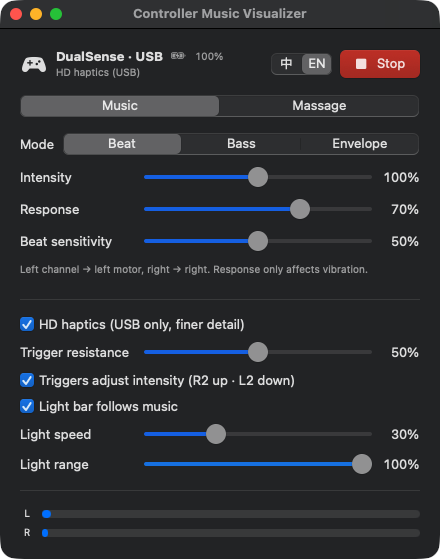
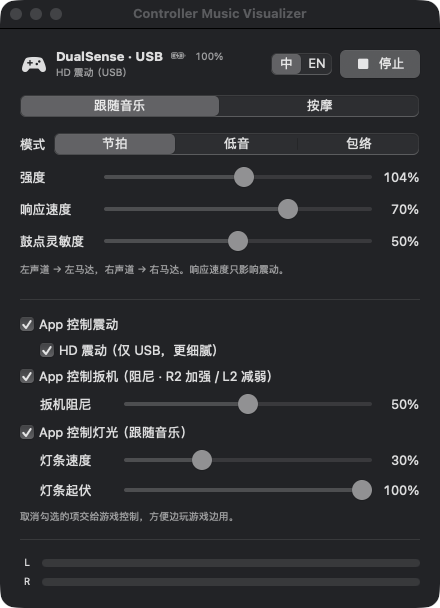
震动、扳机、灯光可分别交给游戏，方便边玩游戏边用
- 新增「App 控制震动」；「用扳机调强度」改为「App 控制扳机」（阻尼 + R2/L2 调强度）；
  「灯条跟随音乐」改为「App 控制灯光」
- 交给游戏的项不再设置 HID 报告里对应的生效标志位，手柄保留游戏的设置；
  交出的那一刻先发一次默认值（阻尼关、灯条默认蓝、马达归零并回到兼容模式）
- 震动交给游戏时只置兼容模式位，马达强度由游戏决定；三项全部交出时不发报告，等同停止
- 去掉关闭灯光时的暗提示灯；停止时只重置由 App 控制的项
- 修复：交出控制权时 Swift 同时访问冲突导致闪退
- README：控制项说明、边玩游戏边用的建议；更新截图

diff --git a/Sources/ControllerMusicVisualizer/HapticsController.swift b/Sources/ControllerMusicVisualizer/HapticsController.swift
@@ -30,14 +30,36 @@ final class HapticsController: ObservableObject {
     @Published var intensity: Float = 1
     @Published var speed: Double = 1
 
+    // 以下三项：勾选 = 由 App 控制；取消 = 交给游戏（App 完全不设置这一项），方便边玩游戏边用
+
+    /// App 控制震动
+    @Published var vibrationEnabled = true {
+        didSet { if running && vibrationEnabled != oldValue { allLeftToGame ? stop() : restart() } }
+    }
     /// HD 震动（仅 USB）：音频声道驱动马达，跟随音乐时直接传递音乐的低频波形
     @Published var hdEnabled = true { didSet { if running && hdEnabled != oldValue { restart() } } }
+    /// App 控制扳机：扳机阻尼 + R2/L2 调强度
+    @Published var triggersEnabled = true {
+        didSet {
+            hid?.controlsTriggers = triggersEnabled
+            if hid == nil && !triggersEnabled { features.setTriggerResistance(0) }
+            if running && allLeftToGame { stop() }
+        }
+    }
     @Published var triggerResistance: Float = 0.5
-    @Published var triggerAdjustsIntensity = true
     @Published var lightSpeed: Float = 0.3 { didSet { analyzer.lightSpeed = lightSpeed } }
     /// 灯条亮暗变化幅度：1 = 鼓点间完全暗掉，越小保留的底亮度越高
     @Published var lightRange: Float = 1
-    @Published var lightEffects = true { didSet { if !lightEffects { resetLight() } } }
+    /// App 控制灯光（灯条 + 白灯）
+    @Published var lightEffects = true {
+        didSet {
+            hid?.controlsLights = lightEffects
+            if running && allLeftToGame { stop() }
+        }
+    }
+
+    /// 三项都交给游戏时 App 不碰手柄，等同于停止
+    var allLeftToGame: Bool { !vibrationEnabled && !triggersEnabled && !lightEffects }
 
     @Published private(set) var running = false
     @Published private(set) var status = Bilingual(zh: "未连接手柄", en: "No controller")
@@ -146,6 +168,7 @@ final class HapticsController: ObservableObject {
     func toggle() { running ? stop() : start() }
 
     func start() {
+        guard !allLeftToGame else { return }
         errorMessage = nil
         link = currentLink()
         updateStatus()
@@ -159,13 +182,16 @@ final class HapticsController: ObservableObject {
         if let h = DualSenseHID.open() {
             hid = h
             output = h
+            h.controlsRumble = vibrationEnabled
+            h.controlsTriggers = triggersEnabled
+            h.controlsLights = lightEffects
             // USB 时启用 HD 震动：音频第 3/4 声道驱动马达，HID 关掉兼容震动开关
-            if hdEnabled, !h.isBluetooth, let dev = CA.dualSenseOutputDevice(),
+            if vibrationEnabled, hdEnabled, !h.isBluetooth, let dev = CA.dualSenseOutputDevice(),
                let out = try? HDHapticOutput(device: dev, waveform: waveform) {
                 hd = out
                 h.hdHaptics = true
             }
-        } else {
+        } else if vibrationEnabled {
             do {
                 output = try RumbleHapticOutput(controller: c)
             } catch {
@@ -175,8 +201,9 @@ final class HapticsController: ObservableObject {
                     en: "Could not connect to the system controller haptics service (\(code)). Reconnect the controller; if that fails, run sudo killall gamecontrollerd in Terminal and press Start again.")
             }
         }
-        engineName = hd != nil ? Bilingual(zh: "HD 震动（USB）", en: "HD haptics (USB)")
-                               : output?.name ?? Bilingual(zh: "震动不可用", en: "Vibration unavailable")
+        engineName = !vibrationEnabled ? Bilingual(zh: "震动交给游戏", en: "Vibration left to games")
+                   : hd != nil ? Bilingual(zh: "HD 震动（USB）", en: "HD haptics (USB)")
+                   : output?.name ?? Bilingual(zh: "震动不可用", en: "Vibration unavailable")
         NSLog("ControllerMusicVisualizer engine: %@", engineName.en)
 
         if source == .music { startTap() }
@@ -243,8 +270,12 @@ final class HapticsController: ObservableObject {
         output?.set(left: 0, right: 0)
         output?.stop()
         output = nil
+        // 没有直连手柄时，扳机/灯光是通过 GameController 设置的，只重置由 App 控制的项
+        if hid == nil {
+            if triggersEnabled { features.setTriggerResistance(0) }
+            if lightEffects { features.reset() }
+        }
         hid = nil
-        features.reset()
         running = false
         engineName = Bilingual(zh: "—", en: "—")
         level = (0, 0)
@@ -263,15 +294,15 @@ final class HapticsController: ObservableObject {
         lastTick = now
         frame += 1
 
-        // 扳机：R2 加强度，L2 减强度，按得越深变得越快
-        // 在后台时系统会重置扳机/灯条，每 0.5 秒补发一次
-        if let hid {
-            hid.setTriggerResistance(triggerResistance)
-        } else {
-            if !NSApplication.shared.isActive && frame % 50 == 0 { features.invalidate() }
-            features.setTriggerResistance(triggerResistance)
-        }
-        if triggerAdjustsIntensity {
+        // 扳机（交给游戏时完全不碰）：阻尼；R2 加强度，L2 减强度，按得越深变得越快
+        if triggersEnabled {
+            if let hid {
+                hid.setTriggerResistance(triggerResistance)
+            } else {
+                // 在后台时系统会重置扳机/灯条，每 0.5 秒补发一次
+                if !NSApplication.shared.isActive && frame % 50 == 0 { features.invalidate() }
+                features.setTriggerResistance(triggerResistance)
+            }
             let (lt, rt) = features.triggers
             let dz: (Float) -> Float = { $0 < 0.05 ? 0 : $0 * $0 }
             let delta = (dz(rt) - dz(lt)) * 1.0 * dt
@@ -292,21 +323,18 @@ final class HapticsController: ObservableObject {
         }
         l = min(max(l * intensity, 0), 1)
         r = min(max(r * intensity, 0), 1)
+        if !vibrationEnabled { l = 0; r = 0 }
         if let hd {
             hd.set(left: l, right: r, freq: source == .music ? musicMode.carrier : preset.carrier(massageTime),
                    useMusic: source == .music)
             output?.set(left: 0, right: 0)   // HID 只负责扳机、灯光（并保持定期重发）
         } else {
-            output?.set(left: l, right: r)
+            output?.set(left: l, right: r)   // 震动交给游戏时 HID 不设置马达强度，这里只为定期重发扳机、灯光
         }
         level = (l, r)
 
-        // 灯光用强度之前的原始数值，强度调低也照样跳
-        if lightEffects { updateLight(music) } else { resetLight() }   // 关闭时保持暗提示灯（值不变不会重复发送）
-    }
-
-    private func resetLight() {
-        if let hid { hid.setIdleLight() } else { features.setLight(0, 0.02, 0.1) }
+        // 灯光用强度之前的原始数值，强度调低也照样跳；交给游戏时完全不碰
+        if lightEffects { updateLight(music) }
     }
 
     private func updateLight(_ m: MusicFrame) {

diff --git a/Sources/ControllerMusicVisualizer/DualSenseHID.swift b/Sources/ControllerMusicVisualizer/DualSenseHID.swift
@@ -21,6 +21,26 @@ final class DualSenseHID: HapticOutput {
 
     /// HD 震动模式：关掉兼容震动开关，手柄改由 USB 音频第 3/4 声道的波形驱动（只有 USB 可用）
     var hdHaptics = false { didSet { if hdHaptics != oldValue { dirty = true } } }
+
+    /// 各项由 App 控制还是交给游戏。交给游戏的项不设置「生效」标志位，手柄保留游戏的设置；
+    /// 三项都交给游戏时完全不发报告。
+    /// 手柄会一直保留最后收到的设置，所以交出去的那一刻先发一次「恢复默认」再放手
+    var controlsRumble = true {
+        didSet { if controlsRumble != oldValue { releaseRumble = !controlsRumble; handedOver() } }
+    }
+    var controlsTriggers = true {
+        didSet { if controlsTriggers != oldValue { releaseTriggers = !controlsTriggers; handedOver() } }
+    }
+    var controlsLights = true {
+        didSet { if controlsLights != oldValue { releaseLights = !controlsLights; handedOver() } }
+    }
+    private var releaseRumble = false, releaseTriggers = false, releaseLights = false
+
+    /// 控制权变化后立即发送（交出的项这一次会发默认值）
+    private func handedOver() {
+        dirty = true
+        flush()
+    }
     private var seq: UInt8 = 0
 
     private var motorLeft: UInt8 = 0
@@ -98,12 +118,6 @@ final class DualSenseHID: HapticOutput {
         if m != playerLEDs { playerLEDs = m; dirty = true }
     }
 
-    /// 灯光关闭时的提示状态：很暗的蓝色灯条 + 中间一颗白灯
-    func setIdleLight() {
-        setLight(0, 0.02, 0.1)
-        setPlayerLEDs(0b00100)
-    }
-
     // MARK: - 发送
 
     private func flush() {
@@ -112,23 +126,43 @@ final class DualSenseHID: HapticOutput {
 
     @discardableResult
     private func send() -> Bool {
+        let rumble = controlsRumble || releaseRumble
+        let triggers = controlsTriggers || releaseTriggers
+        let lights = controlsLights || releaseLights
+        guard rumble || triggers || lights else { return true }   // 全部交给游戏
+
+        // 交出去的项：这一次发送默认值
+        var motors = (motorLeft, motorRight), resist = resistance, rgb = light, leds = playerLEDs
+        var hd = hdHaptics
+        if releaseRumble { motors = (0, 0); hd = false }
+        if releaseTriggers { resist = 0 }
+        if releaseLights { rgb = (0, 64, 255); leds = 0b00100 }
+        releaseRumble = false; releaseTriggers = false; releaseLights = false
+
         var c = [UInt8](repeating: 0, count: 47)
-        // 兼容震动开关（bit0、bit1）：开着时手柄忽略音频声道的波形；两个都关掉才进入 HD 模式
-        c[0] = (hdHaptics ? 0 : 0x01 | 0x02) | 0x04 | 0x08   // 兼容震动、震动选择、右扳机、左扳机
-        c[1] = 0x04 | 0x10                  // 灯条、玩家指示灯
-        c[2] = motorRight
-        c[3] = motorLeft
-        if resistance > 0 {
+        // 震动标志位兼有模式切换作用（实测）：
+        //   bit0 = 马达强度生效，bit1 = 保持兼容震动模式；两位都清零 → 手柄改用音频声道波形（HD）
+        //   交给游戏时只置 bit1：手柄留在兼容模式，马达强度由游戏决定
+        if rumble {
+            c[0] = hd ? 0 : 0x01 | 0x02
+            c[38] = hd ? 0 : 0x04     // 新固件的兼容震动开关
+        } else {
+            c[0] = 0x02
+        }
+        if triggers { c[0] |= 0x04 | 0x08 }   // 右扳机、左扳机
+        if lights { c[1] = 0x04 | 0x10 }      // 灯条、玩家指示灯
+        c[2] = motors.1
+        c[3] = motors.0
+        if triggers && resist > 0 {
             // 扳机效果 0x01：阻力，参数 = 起点、力度
             for base in [10, 21] {
                 c[base] = 0x01
                 c[base + 1] = 0x08
-                c[base + 2] = resistance
+                c[base + 2] = resist
             }
         }
-        c[38] = hdHaptics ? 0 : 0x04         // 新固件的兼容震动开关
-        c[43] = playerLEDs | 0x20           // bit5：立即亮灭，不渐变
-        c[44] = light.0; c[45] = light.1; c[46] = light.2
+        c[43] = leds | 0x20                 // bit5：立即亮灭，不渐变
+        c[44] = rgb.0; c[45] = rgb.1; c[46] = rgb.2
 
         var report: [UInt8]
         let reportID: CFIndex

diff --git a/Sources/ControllerMusicVisualizer/App.swift b/Sources/ControllerMusicVisualizer/App.swift
@@ -68,7 +68,9 @@ struct ContentView: View {
                             .help(b.charging ? L("充电中", "Charging") : L("电量", "Battery"))
                     }
                 }
-                Text(h.running ? h.engineName.text : L("未运行", "Stopped")).font(.caption).foregroundStyle(.secondary)
+                Text(h.running ? h.engineName.text
+                     : h.allLeftToGame ? L("全部交给游戏", "Everything left to games") : L("未运行", "Stopped"))
+                    .font(.caption).foregroundStyle(.secondary)
             }
             Spacer()
             Picker("", selection: $language) {
@@ -86,6 +88,7 @@ struct ContentView: View {
             .keyboardShortcut(.space, modifiers: [])
             .buttonStyle(.borderedProminent)
             .tint(h.running ? .red : .accentColor)
+            .disabled(!h.running && h.allLeftToGame)
         }
     }
 
@@ -143,19 +146,31 @@ struct ContentView: View {
 
     private var featuresPanel: some View {
         VStack(alignment: .leading, spacing: 10) {
-            Toggle(L("HD 震动（仅 USB，更细腻）", "HD haptics (USB only, finer detail)"), isOn: $h.hdEnabled)
-            slider(L("扳机阻尼", "Trigger resistance"), value: $h.triggerResistance)
-            Toggle(L("用扳机调强度（R2 加强 · L2 减弱）", "Triggers adjust intensity (R2 up · L2 down)"),
-                   isOn: $h.triggerAdjustsIntensity)
-            Toggle(h.source == .music ? L("灯条跟随音乐", "Light bar follows music")
-                                      : L("灯条显示按摩颜色", "Light bar shows massage color"),
+            Toggle(L("App 控制震动", "App controls vibration"), isOn: $h.vibrationEnabled)
+            if h.vibrationEnabled {
+                Toggle(L("HD 震动（仅 USB，更细腻）", "HD haptics (USB only, finer detail)"), isOn: $h.hdEnabled)
+                    .padding(.leading, 20)
+            }
+            Toggle(L("App 控制扳机（阻尼 · R2 加强 / L2 减弱）", "App controls triggers (resistance · R2 up / L2 down)"),
+                   isOn: $h.triggersEnabled)
+            if h.triggersEnabled {
+                slider(L("扳机阻尼", "Trigger resistance"), value: $h.triggerResistance)
+                    .padding(.leading, 20)
+            }
+            Toggle(h.source == .music ? L("App 控制灯光（跟随音乐）", "App controls lights (follow music)")
+                                      : L("App 控制灯光（按摩颜色）", "App controls lights (massage color)"),
                    isOn: $h.lightEffects)
             if h.lightEffects {
-                if h.source == .music {
-                    slider(L("灯条速度", "Light speed"), value: $h.lightSpeed)
+                Group {
+                    if h.source == .music {
+                        slider(L("灯条速度", "Light speed"), value: $h.lightSpeed)
+                    }
+                    slider(L("灯条起伏", "Light range"), value: $h.lightRange)
                 }
-                slider(L("灯条起伏", "Light range"), value: $h.lightRange)
+                .padding(.leading, 20)
             }
+            Text(L("取消勾选的项交给游戏控制，方便边玩游戏边用。", "Unchecked items are left to the game, so you can use this while gaming."))
+                .font(.caption).foregroundStyle(.secondary)
         }
     }
 

diff --git a/README.md b/README.md
@@ -28,6 +28,7 @@ Works with most Sony controllers: DualSense / DualSense Edge get every feature, 
 | **HD 震动（USB）**：像 PS5 一样用波形驱动马达。跟随音乐时把底鼓、贝斯的真实波形传到手上；按摩时每种预设有不同的频率质感 | **HD haptics (USB)**: drives the actuators with waveforms like a PS5. In Music mode the real kick/bass waveform reaches your hands; each massage preset has its own frequency texture |
 | **扳机阻尼**：L2/R2 可调阻力，App 在后台时依然有效 | **Trigger resistance**: adjustable L2/R2 resistance that keeps working while the app is in the background |
 | **扳机调强度**：按 R2 加强、L2 减弱，按得越深变得越快 | **Trigger intensity control**: hold R2 to increase, L2 to decrease; deeper press = faster change |
+| **边玩游戏边用**：震动、扳机、灯光可以分别交给游戏或由 App 控制。比如游戏保留自己的自适应扳机和灯光，App 只负责跟随游戏声音震动 | **Use it while gaming**: vibration, triggers and lights can each be left to the game or controlled by the app — e.g. keep the game's adaptive triggers and lights while the app adds vibration that follows the game's audio |
 | **灯条**：低/中/高频混合成红/绿/蓝，亮度跟随低音节奏，暗下去之后才换色 | **Light bar**: low/mid/high frequencies mixed into red/green/blue, brightness pulses with the bass, color changes only after it dims |
 | **白点电平灯**：下方 5 颗白灯显示左右声道的相对强度 | **Player LEDs**: the 5 white LEDs act as a stereo level meter |
 | USB 和蓝牙都支持；显示手柄电量和充电状态；界面中英文切换 | Works over USB and Bluetooth; shows controller battery and charging state; Chinese / English UI |
@@ -78,12 +79,17 @@ open build/ControllerMusicVisualizer.app
 | 响应速度 | 震动跟随声音的快慢（尤其是声音变小时） | Response | How quickly vibration follows the audio (especially when it gets quieter) |
 | 鼓点灵敏度 | 仅节拍模式：越高，越小的鼓点也会触发 | Beat sensitivity | Beat mode only: higher = softer hits also trigger |
 | 速度 | 按摩节奏快慢 | Speed | Massage tempo |
-| HD 震动 | 仅 USB：用波形驱动马达，更细腻；关闭则用兼容震动 | HD haptics | USB only: waveform-driven, finer detail; off = compatible rumble |
-| 扳机阻尼 | L2/R2 阻力，0 为关闭 | Trigger resistance | L2/R2 resistance; 0 = off |
-| 灯条速度 | 灯条暗下去的快慢：慢像呼吸灯，快则一闪一闪；也决定换色频率 | Light speed | How fast the light bar dims: slow = breathing, fast = flashing; also sets how often colors change |
-| 灯条起伏 | 亮暗变化幅度：100% 时鼓点间完全暗掉，越低保留的底亮度越高 | Light range | Depth of the pulsing: 100% = fully dark between beats, lower keeps a base glow |
+| App 控制震动 | 取消后震动交给游戏（等于 App 不碰马达） | App controls vibration | Off = vibration is left to the game |
+| └ HD 震动 | 仅 USB：用波形驱动马达，更细腻；关闭则用兼容震动 | └ HD haptics | USB only: waveform-driven, finer detail; off = compatible rumble |
+| App 控制扳机 | 取消后扳机交给游戏：不设阻尼，R2/L2 也不再调强度 | App controls triggers | Off = triggers are left to the game: no resistance, and R2/L2 no longer adjust intensity |
+| └ 扳机阻尼 | L2/R2 阻力，0 为关闭 | └ Trigger resistance | L2/R2 resistance; 0 = off |
+| App 控制灯光 | 取消后灯条和白灯交给游戏 | App controls lights | Off = light bar and player LEDs are left to the game |
+| └ 灯条速度 | 灯条暗下去的快慢：慢像呼吸灯，快则一闪一闪；也决定换色频率 | └ Light speed | How fast the light bar dims: slow = breathing, fast = flashing; also sets how often colors change |
+| └ 灯条起伏 | 亮暗变化幅度：100% 时鼓点间完全暗掉，越低保留的底亮度越高 | └ Light range | Depth of the pulsing: 100% = fully dark between beats, lower keeps a base glow |
 
 **建议 · Tips**：想要「跟得紧、强弱明显」，选低音或包络模式，响应速度 90–100%，强度 100% 左右。· For tight, punchy vibration, use Bass or Envelope mode, Response at 90–100%, Intensity around 100%.
+
+**边玩游戏边用 · While gaming**：选「跟随音乐 → 低音」，它会跟着游戏音效（爆炸、引擎、枪声）震动；取消「App 控制扳机」，保留游戏的自适应扳机，也避免开枪、踩油门时误改强度；想要游戏自己的灯光就取消「App 控制灯光」。三项都取消就等于停止。· Use Music → Bass so vibration follows game sound effects (explosions, engines, gunfire); turn off *App controls triggers* to keep the game's adaptive triggers and avoid changing intensity when you pull the triggers; turn off *App controls lights* to keep the game's lighting. Turning all three off is the same as stopping.
 
 ## 设计思路 · Design
 
